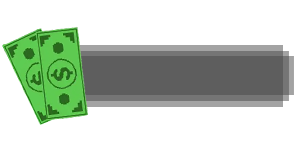
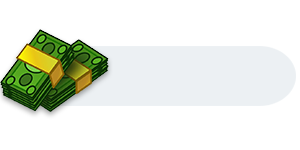
new hud 80%

diff --git a/js/front/graphics/hudObject.js b/js/front/graphics/hudObject.js
@@ -40,7 +40,7 @@ class hudObject {
         });
 
         //Bouton de settings
-        this.settingsbtn = this.phaser.add.sprite(config.width - this.arbitraryUnit - 30, config.height - this.arbitraryUnit - 30, 'button_settings').setOrigin(0, 0).setInteractive().setScale(0.5).setScrollFactor(0);
+        this.settingsbtn = this.phaser.add.sprite(config.width - 397, config.height - 110, 'button_settings').setOrigin(0, 0).setInteractive().setScale(0.55).setScrollFactor(0);
 
         this.settingsbtn.on('pointerdown', function () {
             if (hud.window.isOpened()) {
@@ -55,29 +55,32 @@ class hudObject {
 
     createHud() {
 
+        //Barre de menu du bas
+        this.menubar = this.phaser.add.sprite(config.width / 2, config.height - 100, 'menu_hud').setScrollFactor(0);
+
 
         //Style des barres d'info (argent, bonheur, date et vitesse de jeu)
         this.infobarStyle = this.phaser.make.graphics().fillStyle(0x00ffff).fillRect(0, 0, 2 * this.arbitraryUnit, 0.5 * this.arbitraryUnit);
         this.infobarStyle.generateTexture('infobar', 2 * this.arbitraryUnit, 0.5 * this.arbitraryUnit);
 
         //Barre d'argent
-        this.moneyInfoBar = this.phaser.add.image(0, 0, 'argent_hud').setOrigin(0, 0).setScale(0.5).setScrollFactor(0);
+        this.moneyInfoBar = this.phaser.add.image(8, 0, 'argent_hud').setOrigin(0, 0).setScale(0.5).setScrollFactor(0);
         this.moneyString = "0 $";
-        this.moneyText = this.phaser.add.text(60, 30, this.moneyString, { font: "18px Arial", fill: "#FFFFFF" }).setScrollFactor(0);
+        this.moneyText = this.phaser.add.text(68, 30, this.moneyString, { font: "18px Arial", fill: "#000000" }).setScrollFactor(0);
 
         //Barre de bonheur
         this.happinessInfoBar = this.phaser.add.image(175, 0, 'barre_hud').setOrigin(0, 0).setScale(0.5).setScrollFactor(0);
-        this.happinessIcon = this.phaser.add.image(180, 20, 'emote_neutre').setOrigin(0, 0).setScale(0.75).setScrollFactor(0);
+        this.happinessIcon = this.phaser.add.image(186, 20, 'emote_neutre').setOrigin(0, 0).setScale(0.64).setScrollFactor(0);
         this.happinessString = "100 %";
-        this.happinessText = this.phaser.add.text(2 * (this.arbitraryUnit + 20) + 55, 30, this.happinessString, { font: "18px Arial", fill: "#FFFFFF" }).setScrollFactor(0);
+        this.happinessText = this.phaser.add.text(2 * (this.arbitraryUnit + 20) + 55, 30, this.happinessString, { font: "18px Arial", fill: "#000000" }).setScrollFactor(0);
 
         //Barre de la date
         this.dateInfoBar = this.phaser.add.image(4 * this.arbitraryUnit + 3 * 20, 0, 'date_hud').setOrigin(0, 0).setScale(0.5).setScrollFactor(0);
         this.dateString = "04/09/02";
-        this.dateText = this.phaser.add.text(4 * this.arbitraryUnit + 3 * 20 + 50, 30, this.dateString, { font: "18px Arial", fill: "#ffffff" }).setScrollFactor(0);
+        this.dateText = this.phaser.add.text(4 * this.arbitraryUnit + 3 * 20 + 50, 30, this.dateString, { font: "18px Arial", fill: "#000000" }).setScrollFactor(0);
 
         //Icones gestion du temps
-        this.pausebtn = this.phaser.add.image(500, 20, 'pause').setOrigin(0, 0).setScale(0.25).setInteractive().setScrollFactor(0);
+        this.pausebtn = this.phaser.add.image(this.config.width / 2 - 30, this.config.height - 20, 'pause').setScale(1).setInteractive().setScrollFactor(0);
 
         // A MODIFIER
         this.pausebtn.on("pointerdown", function () {
@@ -91,28 +94,27 @@ class hudObject {
         });
 
 
-        this.playbtn = this.phaser.add.image(540, 20, 'play').setOrigin(0, 0).setScale(0.25).setInteractive().setScrollFactor(0);
+        this.playbtn = this.phaser.add.image(this.config.width / 2, this.config.height - 20, 'play').setScale(1).setInteractive().setScrollFactor(0);
 
         this.playbtn.on("pointerdown", function () {
             console.log("Click play button");
 
         });
 
-        this.avancerapidebtn = this.phaser.add.image(580, 20, 'avance_rapide').setOrigin(0, 0).setScale(0.25).setScrollFactor(0);
+        this.avancerapidebtn = this.phaser.add.image(this.config.width / 2 + 30, this.config.height - 20, 'avance_rapide').setScale(1).setScrollFactor(0);
 
 
         //Bouton du shop
         //this.shopStyle = this.phaser.make.graphics().fillStyle(0xffff00).fillRect(0, 0, this.arbitraryUnit, this.arbitraryUnit);
-        this.shopbtn = this.phaser.add.sprite(30, config.height - this.arbitraryUnit - 30, 'button_shop').setOrigin(0, 0).setInteractive().setScale(0.5).setScrollFactor(0);
+        this.shopbtn = this.phaser.add.sprite(298, config.height - 110, 'button_shop').setOrigin(0, 0).setInteractive().setScale(0.55).setScrollFactor(0);
 
         //Barre de progression du projet en cours
-        this.progressbarStyle = this.phaser.make.graphics().fillStyle(0x00ff00).fillRect(0, 0, this.config.width, 10);
-        this.progressbarStyle.generateTexture('progressbar', this.config.width, 10);
-        this.progressbar = displayProgressBar(this.phaser, 100, this.config.width).setScrollFactor(0);
+        this.progressbar = displayProgressBar(this.phaser, 100, this.config).setScrollFactor(0);
 
         //Boutton settings 
-        this.settingsbtn = this.phaser.add.sprite(config.width - this.arbitraryUnit - 30, config.height - this.arbitraryUnit - 30, 'button_settings').setOrigin(0, 0).setInteractive().setScale(0.5).setScrollFactor(0);
+        this.settingsbtn = this.phaser.add.sprite(config.width - 397, config.height - 110, 'button_settings').setOrigin(0, 0).setInteractive().setScale(0.55).setScrollFactor(0);
 
+        this.pseudoText = this.phaser.add.text(this.config.width / 2 - 25, this.config.height - 87, 'PSEUDO', { font: "14px Arial", fill: "#000000" }).setScrollFactor(0);
     }
 
     getmap() {
@@ -134,9 +136,7 @@ class hudObject {
 
 
         this.shopbtn.on('pointerdown', function () {
-            hud.progressbar.destroy();
-            hud.progressbar = displayProgressBar(hud.game, 50, hud.config.width);
-
+            console.log("click shop")
         });
     }
 
@@ -144,12 +144,11 @@ class hudObject {
         let welfareGame = this.welfareGame;
 
         this.progressbar.destroy();
-        this.progressbar = displayProgressBar(this.phaser, percent, this.config.width);
+        this.progressbar = displayProgressBar(this.phaser, percent, this.config);
         if (percent >= 100) {//Si le projet est fini, on affiche un bouton pour choisir un nouveau projet
 
 
-            this.projectChoicebtn = this.phaser.add.image(850, 20, 'infobar').setOrigin(0, 0).setScale(1, 1).setInteractive().setScrollFactor(0);
-            this.projectChoiceText = this.phaser.add.text(853, 29, 'Choose a new project', { font: "14px Arial", fill: "#000000" }).setScrollFactor(0);
+            this.projectChoicebtn = this.phaser.add.image(this.config.width / 2 + 5, this.config.height - 50, 'bouton_projet').setInteractive().setScrollFactor(0);
 
             this.projectChoicebtn.on("pointerdown", function () {
                 if (hud.window.isOpened()) {
@@ -165,33 +164,32 @@ class hudObject {
     }
 
     deleteProjectChoiceBtn() {
-        this.projectChoiceText.destroy();
         this.projectChoicebtn.destroy();
     }
 
     updateMoneyCounter(money) {
         this.moneyString = money.toString() + "$";
         this.moneyText.destroy();
-        this.moneyText = this.phaser.add.text(60, 30, this.moneyString, { font: "18px Arial", fill: "#FFFFFF" }).setScrollFactor(0);
+        this.moneyText = this.phaser.add.text(68, 30, this.moneyString, { font: "18px Arial", fill: "#000000" }).setScrollFactor(0);
     }
 
     updateHappinessCounter(happiness) {
         this.happinessString = happiness.toString() + "%";
         this.happinessText.destroy();
-        this.happinessText = this.phaser.add.text(2 * (this.arbitraryUnit + 20) + 55, 30, this.happinessString, { font: "18px Arial", fill: "#FFFFFF" }).setScrollFactor(0);
+        this.happinessText = this.phaser.add.text(2 * (this.arbitraryUnit + 20) + 55, 30, this.happinessString, { font: "18px Arial", fill: "#000000" }).setScrollFactor(0);
 
         if (happiness >= 75) {
             this.happinessIcon.destroy();
-            this.happinessIcon = this.phaser.add.image(180, 20, 'emote_heureux').setOrigin(0, 0).setScale(0.75).setScrollFactor(0);
+            this.happinessIcon = this.phaser.add.image(186, 20, 'emote_heureux').setOrigin(0, 0).setScale(0.64).setScrollFactor(0);
 
         }
         else {
             if (happiness < 75 && happiness >= 25) {
-                this.happinessIcon = this.phaser.add.image(180, 20, 'emote_neutre').setOrigin(0, 0).setScale(0.75).setScrollFactor(0);
+                this.happinessIcon = this.phaser.add.image(186, 20, 'emote_neutre').setOrigin(0, 0).setScale(0.64).setScrollFactor(0);
 
             }
             else {
-                this.happinessIcon = this.phaser.add.image(180, 20, 'emote_colere').setOrigin(0, 0).setScale(0.75).setScrollFactor(0);
+                this.happinessIcon = this.phaser.add.image(186, 20, 'emote_colere').setOrigin(0, 0).setScale(0.64).setScrollFactor(0);
 
             }
         }
@@ -201,7 +199,7 @@ class hudObject {
     updateDate(date) {
         this.dateString = date.day.toString() + "/" + date.month.toString() + "/" + date.year.toString();
         this.dateText.destroy();
-        this.dateText = this.phaser.add.text(4 * this.arbitraryUnit + 3 * 20 + 50, 30, this.dateString, { font: "18px Arial", fill: "#ffffff" }).setScrollFactor(0);
+        this.dateText = this.phaser.add.text(4 * this.arbitraryUnit + 3 * 20 + 50, 30, this.dateString, { font: "18px Arial", fill: "#000000" }).setScrollFactor(0);
     }
 
 
@@ -220,9 +218,9 @@ class hudObject {
 }
 
 //Fonction d'affichage de la barre de progression en fonction du poucentage de progression du projet
-function displayProgressBar(game, percent, gameWidth) {
-    let progressbar = game.add.image(0, 0, 'progressbar').setOrigin(0, 0).setScrollFactor(0);
-    progressbar.setDisplaySize(percent / 100 * gameWidth, 10);
+function displayProgressBar(game, percent, config) {
+    let progressbar = game.add.image(config.width / 2 - 87, config.height - 61, 'progress_bar').setOrigin(0, 0).setScrollFactor(0);
+    progressbar.setDisplaySize(percent * 184/ 100,  18);
 
     return progressbar;
 }

diff --git a/js/front/graphics/viewEngine.js b/js/front/graphics/viewEngine.js
@@ -40,6 +40,10 @@ function preload() {
     this.load.image('emote_neutre', './img/HUD/neutre.png')
     this.load.image('emote_colere', './img/HUD/colere.png')
     this.load.image('emote_heureux', './img/HUD/bonheur.png')
+    this.load.image('projet_hud', './img/HUD/projet_hud.png');
+    this.load.image('menu_hud', './img/HUD/menu_hud.png');
+    this.load.image('bouton_projet', './img/HUD/bouton_projet.png');
+    this.load.image('progress_bar', './img/hud/progress_bar.png')
 }
 
 let hud;
@@ -93,19 +97,8 @@ function update(time, delta) {
 
     controls.update(delta);
     if (getmap.isStarted()) {
-        const worldPoint = this.input.activePointer.positionToCamera(this.cameras.main);
-
-        const pointerTileXY = getmap.groundLayer.worldToTileXY(worldPoint.x, worldPoint.y);
-        const snappedWorldPoint = getmap.groundLayer.tileToWorldXY(pointerTileXY.x, pointerTileXY.y);
-        getmap.marker.setPosition(snappedWorldPoint.x, snappedWorldPoint.y);
         camera.setBounds(0, 0, getmap.returnmap().widthInPixels, getmap.returnmap().heightInPixels); //fixe les bords à FIXE MARCHE PAS
 
-        if (this.input.manager.activePointer.isDown) {
-
-            //console.log('coord: x', worldPoint.x) //Bordel de fou furieux dans la console mais fonctionne
-            //console.log('coord: y', worldPoint.y)
-
-        }
     }
 
 }

diff --git a/js/front/graphics/windowsObject.js b/js/front/graphics/windowsObject.js
@@ -78,8 +78,8 @@ class windowObject {
         for (let i = 0; i < 3; i++) {
             let projectTitleString = "Project " + (i + 1) + "\nAmount to produce :" + (proposals[i].getAmountToProduce()) + "\nRevenue :" + (proposals[i].getRevenue());
             this.projectChoice[i] = {
-                background: this.game.add.image(350, 150 + i * 100, 'infobar').setOrigin(0, 0).setScale(2, 2.4).setScrollFactor(0).setInteractive(),
-                title: this.game.add.text(360, 160 + i * 100, projectTitleString, { font: "14px Arial", fill: "#ff4000" }).setScrollFactor(0),
+                background: this.game.add.image(350, 120 + i * 130, 'projet_hud').setOrigin(0, 0).setScale(0.6).setScrollFactor(0).setInteractive(),
+                title: this.game.add.text(370, 160 + i * 130, projectTitleString, { font: "14px Arial", fill: "#ffffff" }).setScrollFactor(0),
             }
 
             this.projectChoice[i].background.on('pointerdown', function () {
